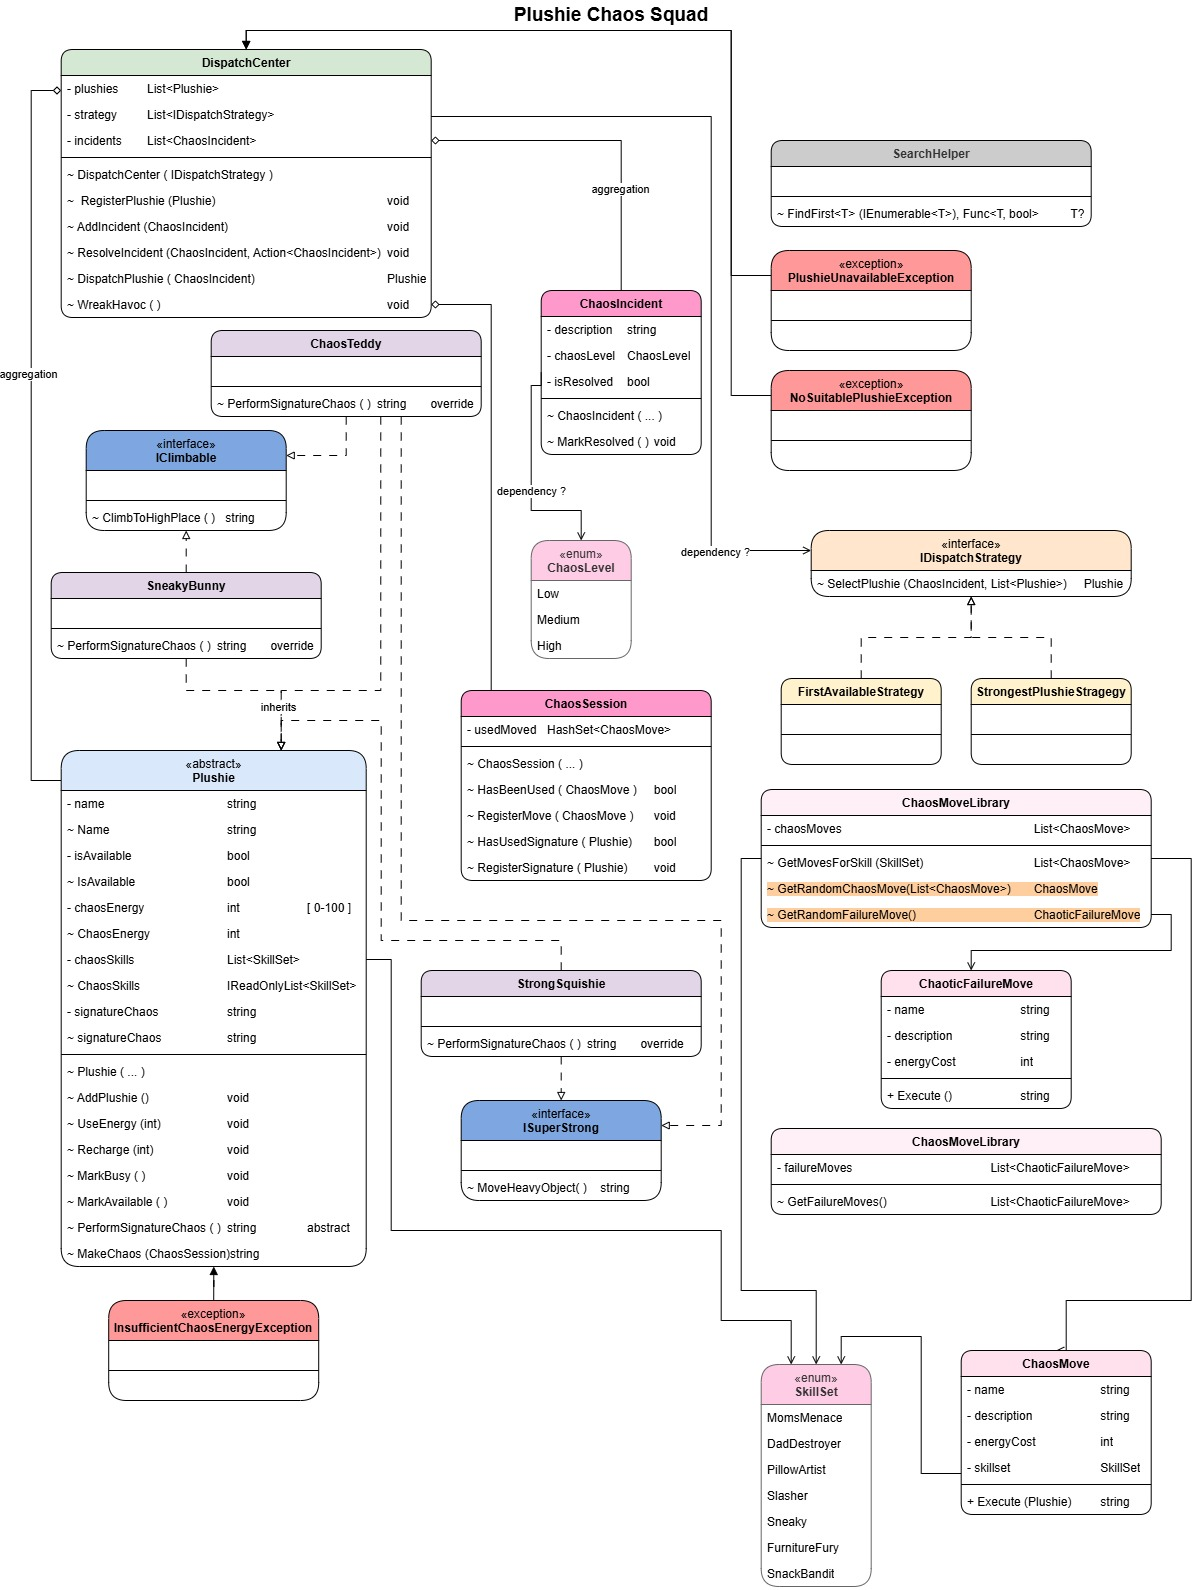
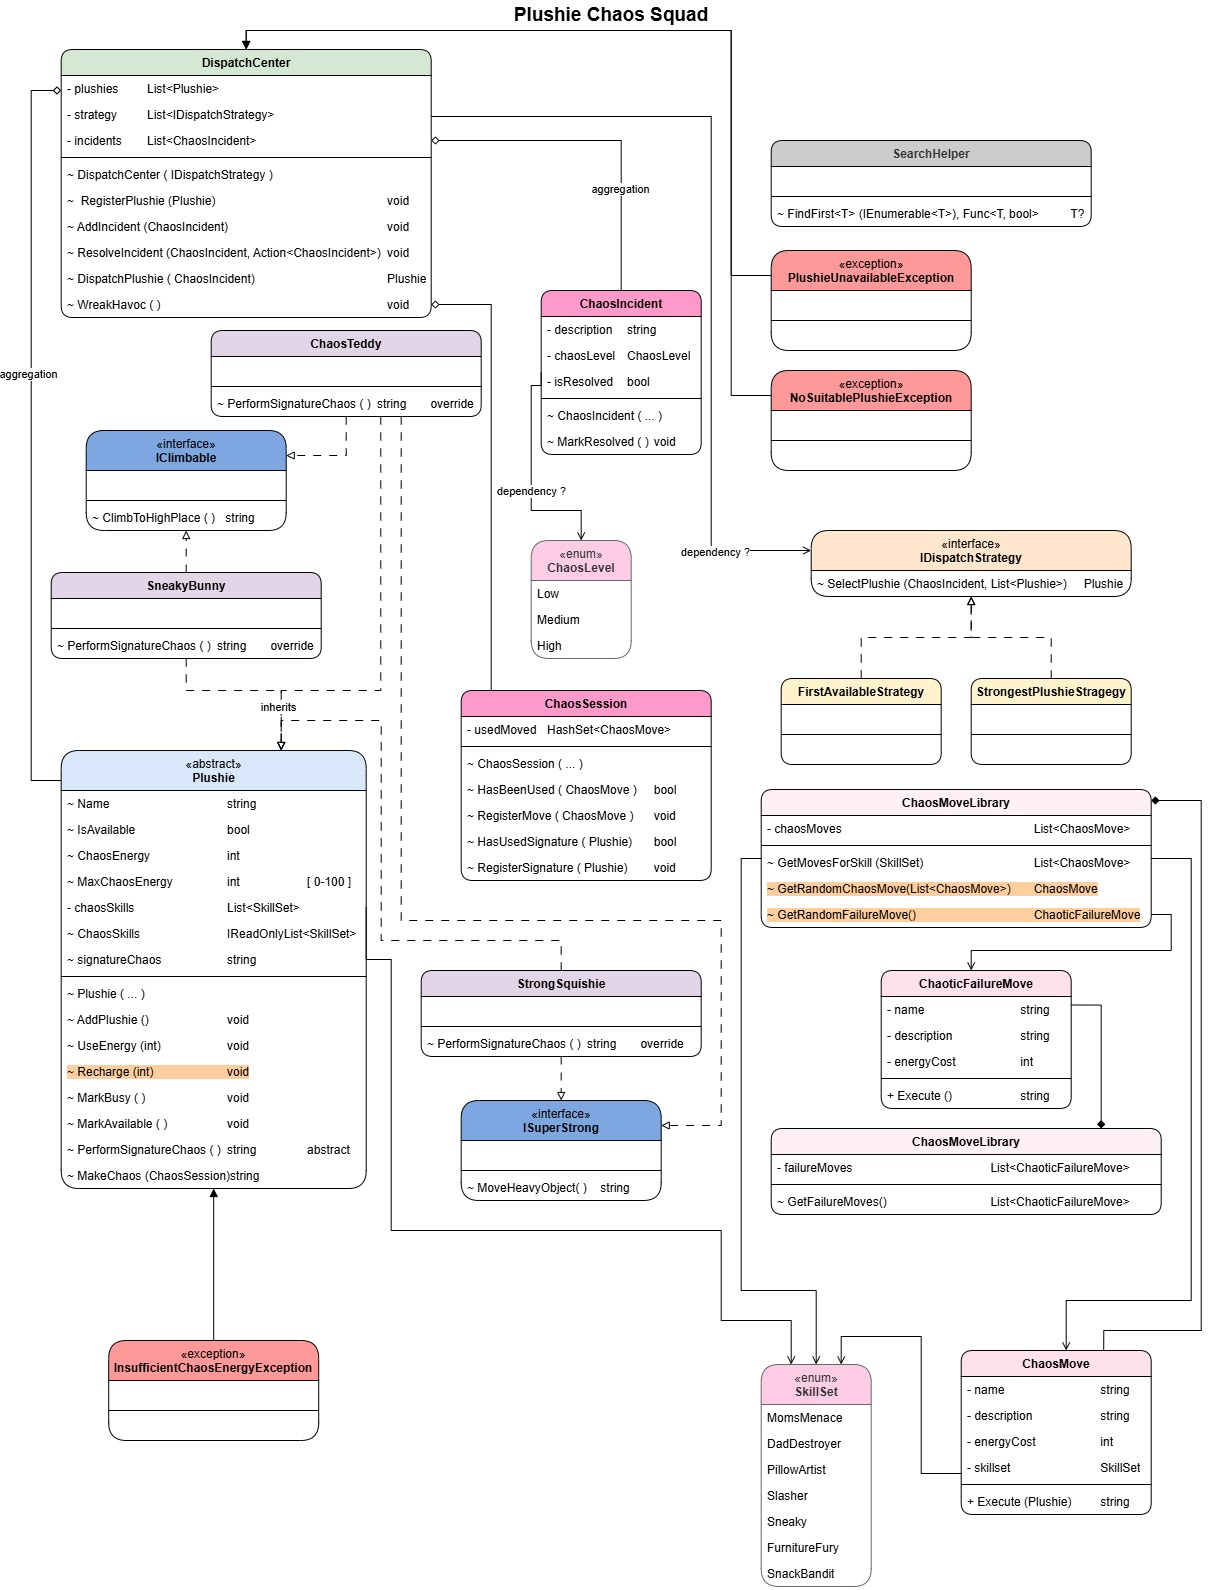
Updated Plushie.cs and UML diagram

diff --git a/Models/Squad/Plushie.cs b/Models/Squad/Plushie.cs
@@ -1,10 +1,87 @@
-using System;
-using System.Collections.Generic;
-using System.Text;
+using PlushieChaosSquad.Models.Moves;
 
 namespace PlushieChaosSquad.Models.Squad
 {
-    internal class Plushie
+    /// <summary>
+    /// Represents a plushie member of the Plushie Chaos Squad.
+    /// </summary>
+    internal abstract class Plushie
     {
+        private const int RechargeTimePerEnergyMilliseconds = 100;
+        internal string Name { get; }
+        internal string SignatureChaos { get; }
+        internal int MaxChaosEnergy { get; }
+        internal int ChaosEnergy { get; private set; }
+        internal IReadOnlyList<SkillSet> ChaosSkills { get; }
+        internal bool IsAvailable { get; private set; }
+
+        /// <summary>
+        /// Creates a new Plushie.
+        /// </summary>
+        /// <param name="name">The name of the plushie.</param>
+        /// <param name="signatureChaos">The plushie's signature chaos move.</param>
+        /// <param name="chaosSkills">The skill set available to the plushie.</param>
+        /// <param name="maxChaosEnergy">The plushie's maximum amount of Chaos Energy.</param>
+        internal Plushie(string name, string signatureChaos, List<SkillSet> chaosSkills, int maxChaosEnergy = 100)
+        {
+            Name = name;
+            SignatureChaos = signatureChaos;
+            ChaosSkills = chaosSkills;
+
+            if (maxChaosEnergy < 0) maxChaosEnergy = 45;
+            if (maxChaosEnergy > 100) maxChaosEnergy = 100;
+
+            MaxChaosEnergy = maxChaosEnergy;
+            ChaosEnergy = maxChaosEnergy;
+
+            IsAvailable = true;
+
+        }
+        /// <summary>
+        /// Performs a basic chaos move available to the plushie.
+        /// </summary>
+        /// <returns>A description of the chaos caused.</returns>
+        internal abstract string MakeChaos();
+
+        /// <summary>
+        /// Performs the plushie's signature chaos move.
+        /// </summary>
+        /// <returns>A description of the signature chaos caused.</returns>
+        internal abstract string PerformSignatureChaos();
+
+        /// <summary>
+        /// Marks the plushie as available for a new assignment.
+        /// </summary>
+        internal void MarkAsAvailable() => IsAvailable = true;
+
+        /// <summary>
+        /// Marks the plushie as busy and unavailable for a new assignment.
+        /// </summary>
+        internal void MarkAsBusy() => IsAvailable = false;
+
+        /// <summary>
+        /// Recharges the plushie's Chaos Energy to its maximum after a delay based on the amount of energy restored.
+        /// </summary>
+        /// <returns>A message describing the completed recharge.</returns>
+        internal async Task<string> RechargeAsync()
+        {
+            int energyToRestore = MaxChaosEnergy - ChaosEnergy;
+
+            if (energyToRestore <= 0)
+            {
+                return $"{Name}'s Chaos Energy is already at maximum.";
+            }
+            IsAvailable = false;
+
+            int rechargeTime = energyToRestore * RechargeTimePerEnergyMilliseconds;
+
+            await Task.Delay(rechargeTime);
+
+            ChaosEnergy = MaxChaosEnergy;
+            //IsAvailable = true;
+
+            return $"{Name} has rested and its Chaos Energy is back to {MaxChaosEnergy}.";
+        }
     }
 }
+
